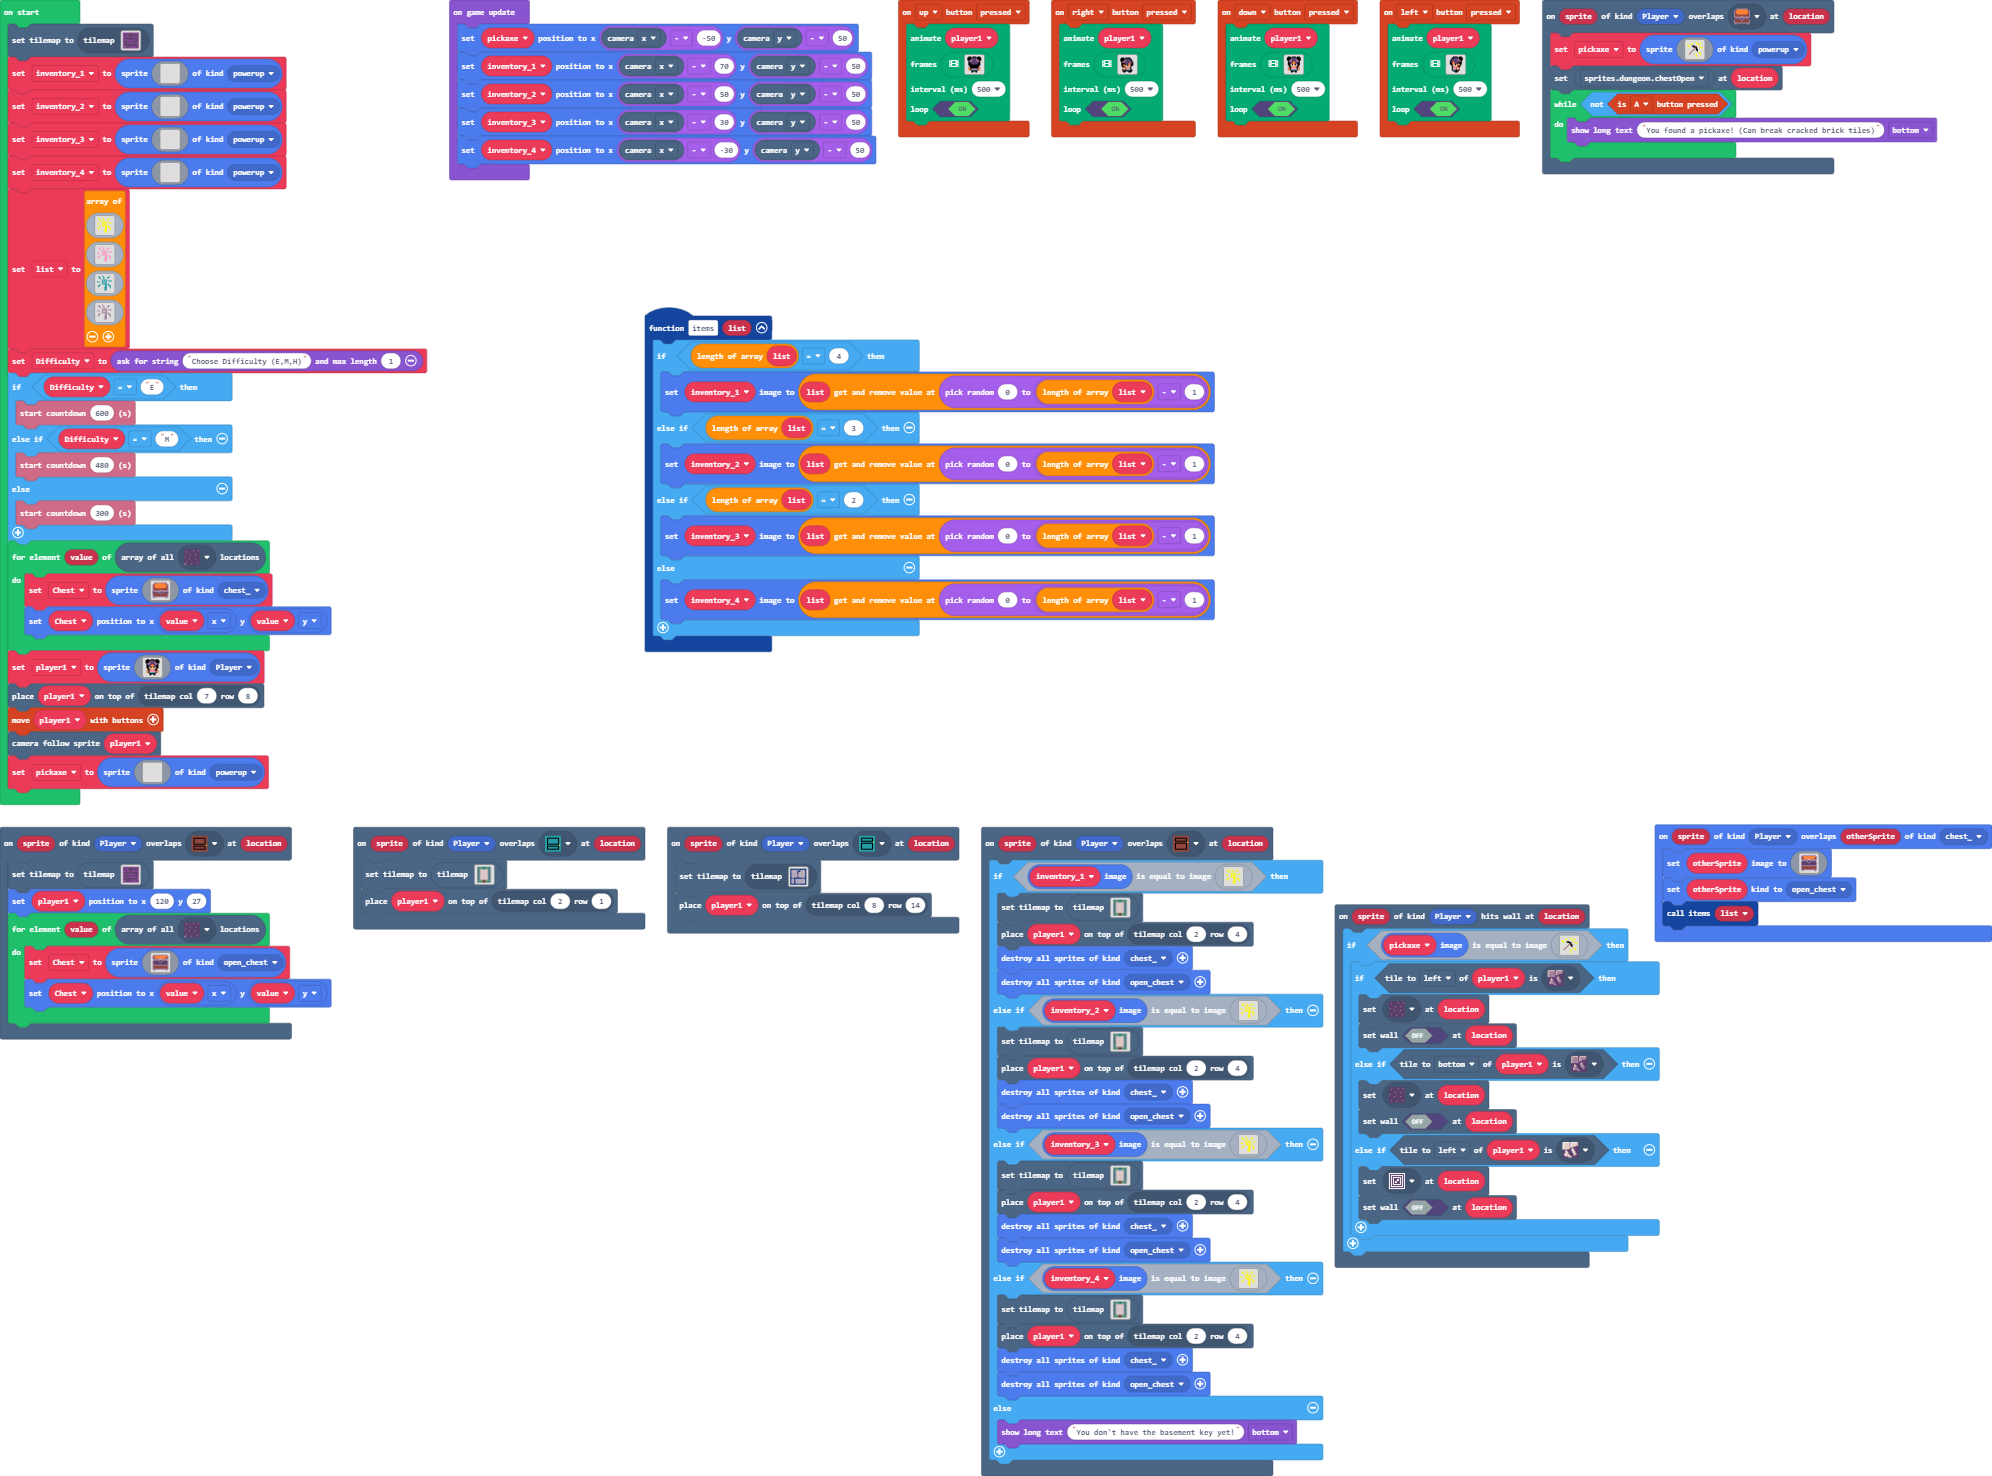
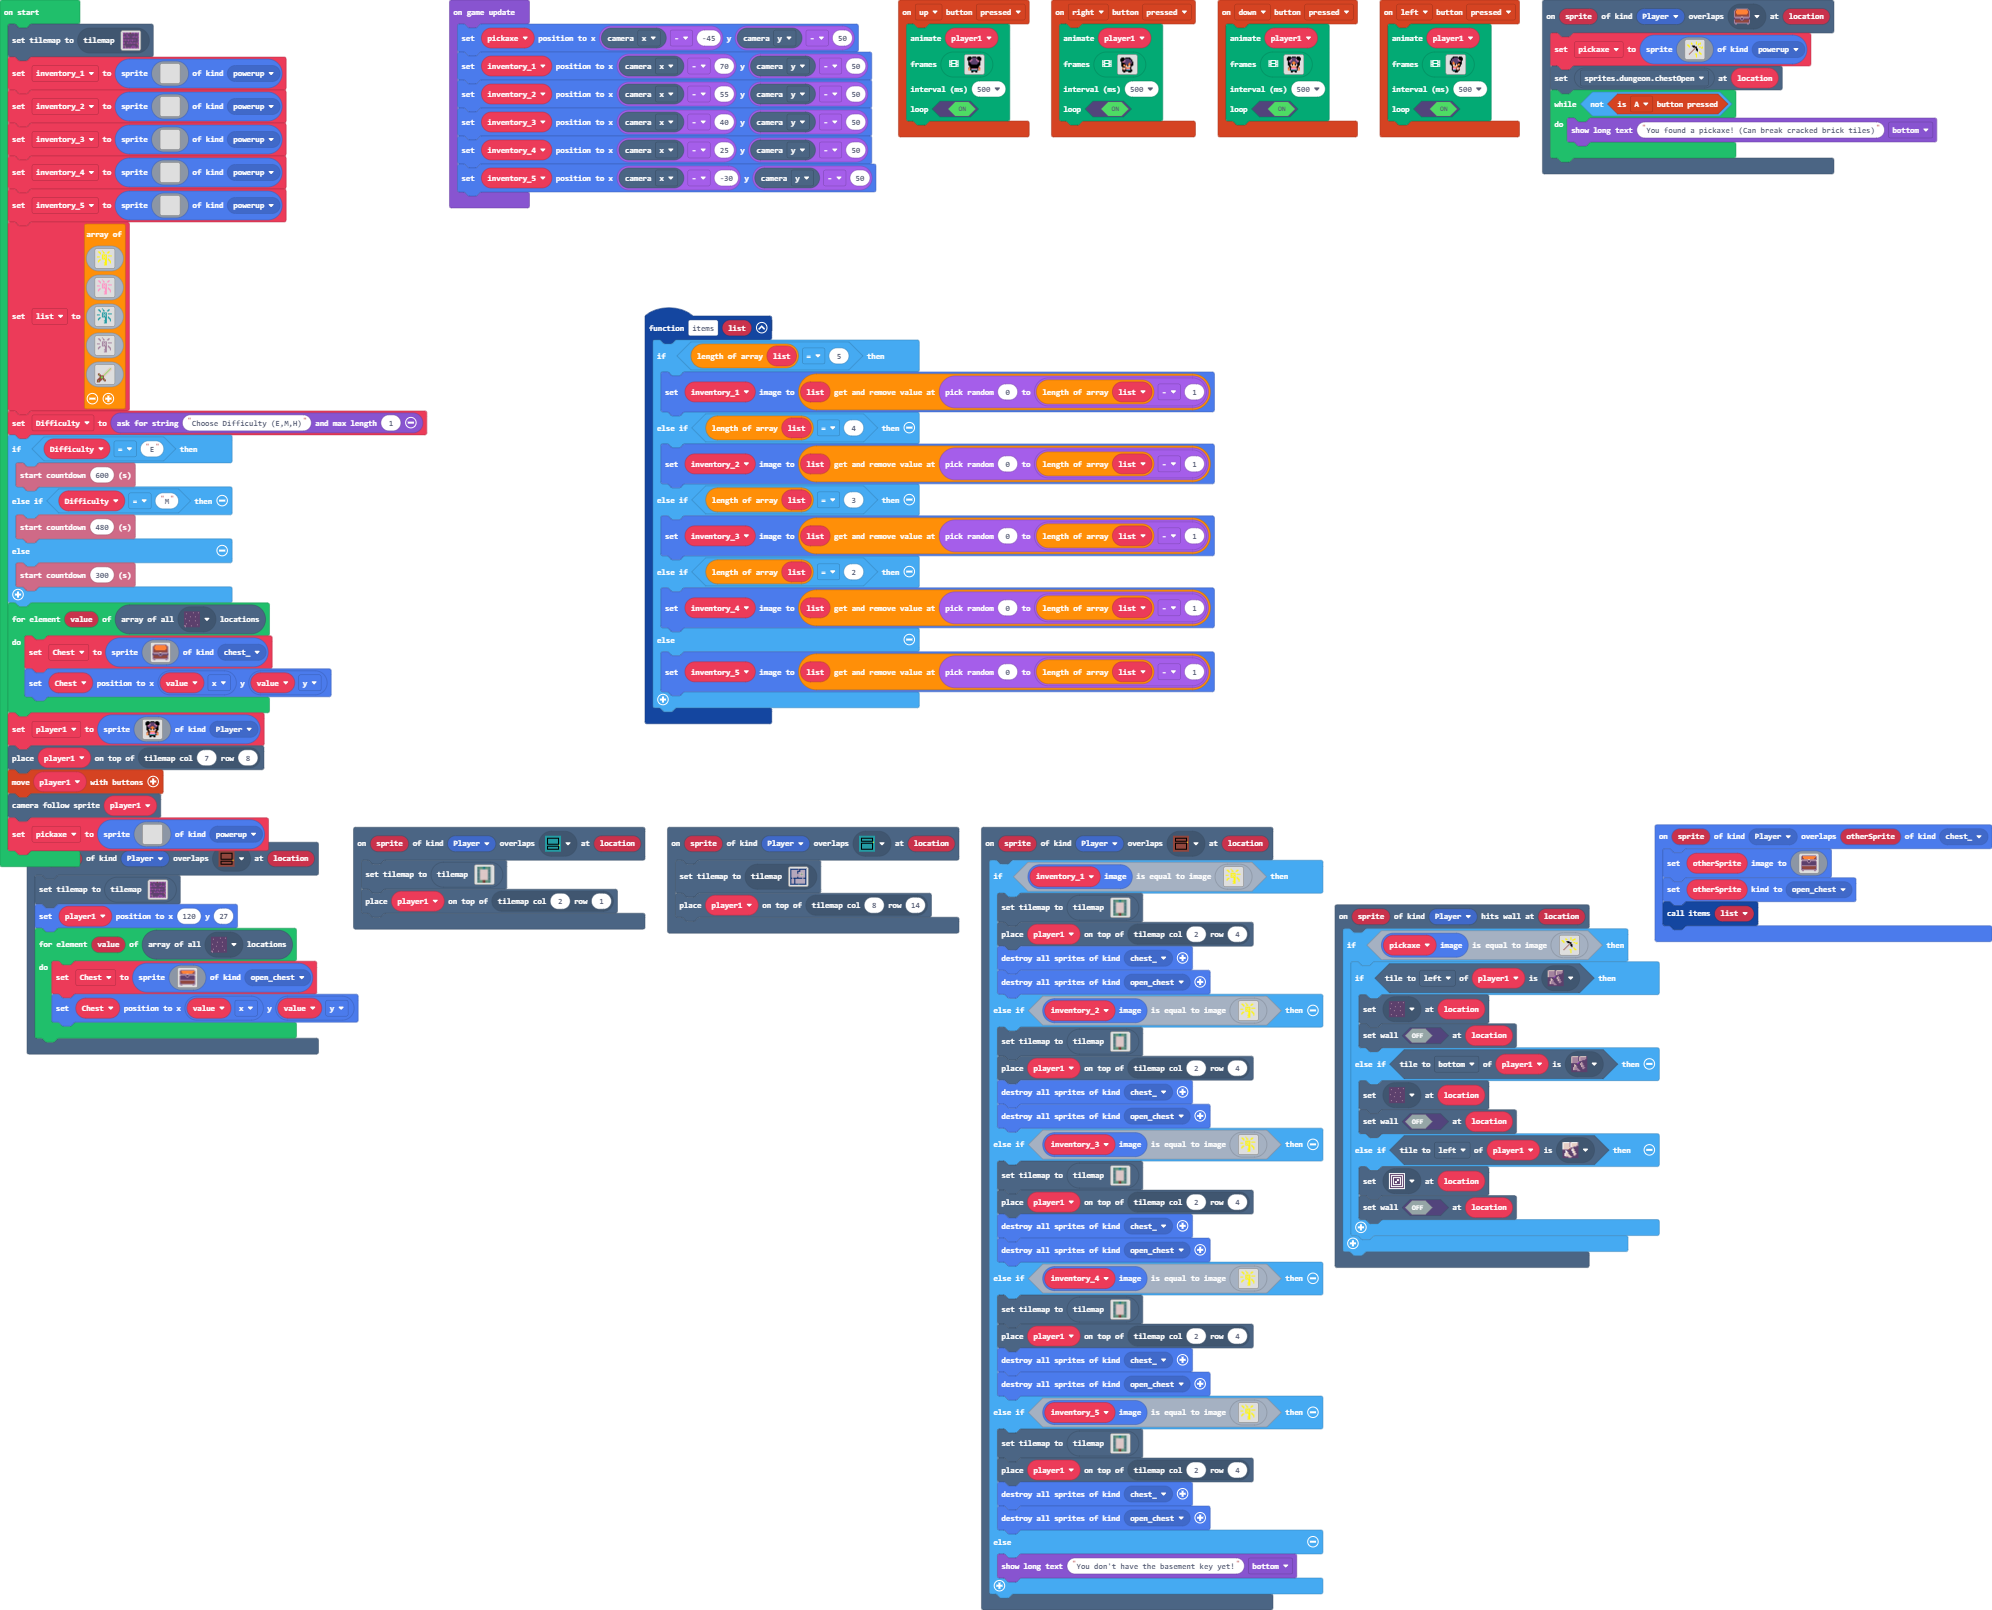
Update main.blocks, main.ts, tilemap.g.jres, tilemap.g.ts

Changed region(s): [[0.0, 0.0, 1.0, 0.9973], [0.3112, 0.187, 0.6225, 0.4675], [0.2179, 0.0, 0.996, 0.1558]]

diff --git a/tilemap.g.ts b/tilemap.g.ts
@@ -253,8 +253,84 @@ namespace myTiles {
 . . . . . . . . . . . . . . . . 
 . . . . . . . . . . . . . . . . 
 `, [myTiles.transparency16], TileScale.Sixteen);
+            case "level14":
+            case "level14":return tiles.createTilemap(hex`1000100000000000000000000000000000000000000000000000000000000000000000000000000000000000000000000000000000000000000000000000000000000000000000000000000000000000000000000000000000000000000000000000000000000000000000000000000000000000000000000000000000000000000000000000000000000000000000000000000000000000000000000000000000000000000000000000000000000000000000000000000000000000000000000000000000000000000000000000000000000000000000000000000000000000000000000000000000000000000000000000000000000000000000000000000000000000`, img`
+. . . . . . . . . . . . . . . . 
+. . . . . . . . . . . . . . . . 
+. . . . . . . . . . . . . . . . 
+. . . . . . . . . . . . . . . . 
+. . . . . . . . . . . . . . . . 
+. . . . . . . . . . . . . . . . 
+. . . . . . . . . . . . . . . . 
+. . . . . . . . . . . . . . . . 
+. . . . . . . . . . . . . . . . 
+. . . . . . . . . . . . . . . . 
+. . . . . . . . . . . . . . . . 
+. . . . . . . . . . . . . . . . 
+. . . . . . . . . . . . . . . . 
+. . . . . . . . . . . . . . . . 
+. . . . . . . . . . . . . . . . 
+. . . . . . . . . . . . . . . . 
+`, [myTiles.transparency16], TileScale.Sixteen);
+            case "level15":
+            case "level15":return tiles.createTilemap(hex`1000100000000000000000000000000000000000000000000000000000000000000000000000000000000000000000000000000000000000000000000000000000000000000000000000000000000000000000000000000000000000000000000000000000000000000000000000000000000000000000000000000000000000000000000000000000000000000000000000000000000000000000000000000000000000000000000000000000000000000000000000000000000000000000000000000000000000000000000000000000000000000000000000000000000000000000000000000000000000000000000000000000000000000000000000000000000000`, img`
+. . . . . . . . . . . . . . . . 
+. . . . . . . . . . . . . . . . 
+. . . . . . . . . . . . . . . . 
+. . . . . . . . . . . . . . . . 
+. . . . . . . . . . . . . . . . 
+. . . . . . . . . . . . . . . . 
+. . . . . . . . . . . . . . . . 
+. . . . . . . . . . . . . . . . 
+. . . . . . . . . . . . . . . . 
+. . . . . . . . . . . . . . . . 
+. . . . . . . . . . . . . . . . 
+. . . . . . . . . . . . . . . . 
+. . . . . . . . . . . . . . . . 
+. . . . . . . . . . . . . . . . 
+. . . . . . . . . . . . . . . . 
+. . . . . . . . . . . . . . . . 
+`, [myTiles.transparency16], TileScale.Sixteen);
+            case "level16":
+            case "level16":return tiles.createTilemap(hex`1000100000000000000000000000000000000000000000000000000000000000000000000000000000000000000000000000000000000000000000000000000000000000000000000000000000000000000000000000000000000000000000000000000000000000000000000000000000000000000000000000000000000000000000000000000000000000000000000000000000000000000000000000000000000000000000000000000000000000000000000000000000000000000000000000000000000000000000000000000000000000000000000000000000000000000000000000000000000000000000000000000000000000000000000000000000000000`, img`
+. . . . . . . . . . . . . . . . 
+. . . . . . . . . . . . . . . . 
+. . . . . . . . . . . . . . . . 
+. . . . . . . . . . . . . . . . 
+. . . . . . . . . . . . . . . . 
+. . . . . . . . . . . . . . . . 
+. . . . . . . . . . . . . . . . 
+. . . . . . . . . . . . . . . . 
+. . . . . . . . . . . . . . . . 
+. . . . . . . . . . . . . . . . 
+. . . . . . . . . . . . . . . . 
+. . . . . . . . . . . . . . . . 
+. . . . . . . . . . . . . . . . 
+. . . . . . . . . . . . . . . . 
+. . . . . . . . . . . . . . . . 
+. . . . . . . . . . . . . . . . 
+`, [myTiles.transparency16], TileScale.Sixteen);
+            case "level17":
+            case "level17":return tiles.createTilemap(hex`1000100000000000000000000000000000000000000000000000000000000000000000000000000000000000000000000000000000000000000000000000000000000000000000000000000000000000000000000000000000000000000000000000000000000000000000000000000000000000000000000000000000000000000000000000000000000000000000000000000000000000000000000000000000000000000000000000000000000000000000000000000000000000000000000000000000000000000000000000000000000000000000000000000000000000000000000000000000000000000000000000000000000000000000000000000000000000`, img`
+. . . . . . . . . . . . . . . . 
+. . . . . . . . . . . . . . . . 
+. . . . . . . . . . . . . . . . 
+. . . . . . . . . . . . . . . . 
+. . . . . . . . . . . . . . . . 
+. . . . . . . . . . . . . . . . 
+. . . . . . . . . . . . . . . . 
+. . . . . . . . . . . . . . . . 
+. . . . . . . . . . . . . . . . 
+. . . . . . . . . . . . . . . . 
+. . . . . . . . . . . . . . . . 
+. . . . . . . . . . . . . . . . 
+. . . . . . . . . . . . . . . . 
+. . . . . . . . . . . . . . . . 
+. . . . . . . . . . . . . . . . 
+. . . . . . . . . . . . . . . . 
+`, [myTiles.transparency16], TileScale.Sixteen);
             case "level3":
[2 lines of base64/hex data omitted]
 2 2 2 2 2 2 2 2 . 2 2 2 2 2 2 2 
 2 . . . . . . . . 2 . . . . . 2 
 2 . . . . . . 2 2 2 . . . . . 2 
@@ -271,7 +347,7 @@ namespace myTiles {
 2 . . . 2 . . . . . . . . . . 2 
 2 . . . 2 . . . . . . . . . . 2 
 2 2 2 2 2 2 2 2 . 2 2 2 2 2 2 2 
-`, [myTiles.transparency16,myTiles.tile5,myTiles.tile6,myTiles.tile9,myTiles.tile10,sprites.dungeon.floorLight2,myTiles.tile12,myTiles.tile13,myTiles.tile14,myTiles.tile15,sprites.builtin.forestTiles0,sprites.dungeon.floorDark3], TileScale.Sixteen);
+`, [myTiles.transparency16,myTiles.tile5,myTiles.tile6,myTiles.tile9,myTiles.tile10,sprites.dungeon.floorLight3,sprites.dungeon.floorLight2,myTiles.tile12,myTiles.tile13,myTiles.tile14,myTiles.tile15,sprites.builtin.forestTiles0], TileScale.Sixteen);
         }
         return null;
     })

diff --git a/main.ts b/main.ts
@@ -207,6 +207,28 @@ scene.onOverlapTile(SpriteKind.Player, assets.tile`myTile`, function (sprite, lo
         tiles.placeOnTile(player1, tiles.getTileLocation(2, 4))
         sprites.destroyAllSpritesOfKind(SpriteKind.chest_)
         sprites.destroyAllSpritesOfKind(SpriteKind.open_chest)
+    } else if (inventory_5.image.equals(img`
+        . . . . . 5 . . . . . . . . . . 
+        . 5 5 . . . 5 . . . . 5 5 . . . 
+        . . 5 5 . . 5 5 . . 5 5 . . . . 
+        . . . 5 . . . . . . . . . . . . 
+        . . . . . 5 5 5 5 5 . . . . . . 
+        . . . . . 5 . 5 . 5 . 5 5 5 5 . 
+        5 5 5 . . 5 5 . 5 5 . . . . . . 
+        . . . . . 5 . 5 . 5 . . . . . . 
+        . . . . . 5 5 5 5 5 . 5 . . . . 
+        . . 5 5 . . . . 5 5 . 5 5 . . . 
+        . 5 5 . . . . . 5 5 . . 5 5 . . 
+        . 5 . . . . . . 5 5 . . . 5 . . 
+        . . . . . . . 5 5 5 . . . 5 . . 
+        . . . . . . . . 5 5 . . . . . . 
+        . . . . . . . 5 5 5 . . . . . . 
+        . . . . . . . . . . . . . . . . 
+        `)) {
+        tiles.setCurrentTilemap(tilemap`level5`)
+        tiles.placeOnTile(player1, tiles.getTileLocation(2, 4))
+        sprites.destroyAllSpritesOfKind(SpriteKind.chest_)
+        sprites.destroyAllSpritesOfKind(SpriteKind.open_chest)
     } else {
         game.showLongText("You don't have the basement key yet!", DialogLayout.Bottom)
     }
@@ -297,14 +319,16 @@ controller.left.onEvent(ControllerButtonEvent.Pressed, function () {
     )
 })
 function items (list: Image[]) {
-    if (list.length == 4) {
+    if (list.length == 5) {
         inventory_1.setImage(list.removeAt(randint(0, list.length - 1)))
-    } else if (list.length == 3) {
+    } else if (list.length == 4) {
         inventory_2.setImage(list.removeAt(randint(0, list.length - 1)))
-    } else if (list.length == 2) {
+    } else if (list.length == 3) {
         inventory_3.setImage(list.removeAt(randint(0, list.length - 1)))
-    } else {
+    } else if (list.length == 2) {
         inventory_4.setImage(list.removeAt(randint(0, list.length - 1)))
+    } else {
+        inventory_5.setImage(list.removeAt(randint(0, list.length - 1)))
     }
 }
 scene.onOverlapTile(SpriteKind.Player, sprites.dungeon.chestClosed, function (sprite, location) {
@@ -457,6 +481,7 @@ let pickaxe: Sprite = null
 let player1: Sprite = null
 let Chest: Sprite = null
 let list: Image[] = []
+let inventory_5: Sprite = null
 let inventory_4: Sprite = null
 let inventory_3: Sprite = null
 let inventory_2: Sprite = null
@@ -517,6 +542,24 @@ inventory_3 = sprites.create(img`
     . . . . . . . . . . . . . . . . 
     `, SpriteKind.powerup)
 inventory_4 = sprites.create(img`
+    . . . . . . . . . . . . . . . . 
+    . . . . . . . . . . . . . . . . 
+    . . . . . . . . . . . . . . . . 
+    . . . . . . . . . . . . . . . . 
+    . . . . . . . . . . . . . . . . 
+    . . . . . . . . . . . . . . . . 
+    . . . . . . . . . . . . . . . . 
+    . . . . . . . . . . . . . . . . 
+    . . . . . . . . . . . . . . . . 
+    . . . . . . . . . . . . . . . . 
+    . . . . . . . . . . . . . . . . 
+    . . . . . . . . . . . . . . . . 
+    . . . . . . . . . . . . . . . . 
+    . . . . . . . . . . . . . . . . 
+    . . . . . . . . . . . . . . . . 
+    . . . . . . . . . . . . . . . . 
+    `, SpriteKind.powerup)
+inventory_5 = sprites.create(img`
     . . . . . . . . . . . . . . . . 
     . . . . . . . . . . . . . . . . 
     . . . . . . . . . . . . . . . . 
@@ -606,6 +649,24 @@ img`
     . . . . . . . . b b . . . . . . 
     . . . . . . . b b b . . . . . . 
     . . . . . . . . . . . . . . . . 
+    `,
+img`
+    . . . . . . . . . . . . . . . . 
+    . . . . . . . . . . . . d d d . 
+    . . . . . . . . . . . d d 7 d . 
+    . . . . . . . . . . d d 7 d d . 
+    . . . . . . . . . d d 7 d d . . 
+    . . . . . . . . d d 7 d d . . . 
+    . . . . . . . d d 7 d d . . . . 
+    . e e . . . d d 7 d d . . . . . 
+    . e 7 e . d d 7 d d . . . . . . 
+    . . e e e e e d d . . . . . . . 
+    . . . e 7 7 e d . . . . . . . . 
+    . . e e 7 7 e . . . . . . . . . 
+    . e e e e e e e . . . . . . . . 
+    e e e e e . e 7 e . . . . . . . 
+    e 7 e e . . . e e . . . . . . . 
+    e e e . . . . . . . . . . . . . 
     `
 ]
 let Difficulty = game.askForString("Choose Difficulty (E,M,H)", 1)
@@ -677,9 +738,10 @@ pickaxe = sprites.create(img`
     . . . . . . . . . . . . . . . . 
     `, SpriteKind.powerup)
 game.onUpdate(function () {
-    pickaxe.setPosition(scene.cameraProperty(CameraProperty.X) - -50, scene.cameraProperty(CameraProperty.Y) - 50)
+    pickaxe.setPosition(scene.cameraProperty(CameraProperty.X) - -45, scene.cameraProperty(CameraProperty.Y) - 50)
     inventory_1.setPosition(scene.cameraProperty(CameraProperty.X) - 70, scene.cameraProperty(CameraProperty.Y) - 50)
-    inventory_2.setPosition(scene.cameraProperty(CameraProperty.X) - 50, scene.cameraProperty(CameraProperty.Y) - 50)
-    inventory_3.setPosition(scene.cameraProperty(CameraProperty.X) - 30, scene.cameraProperty(CameraProperty.Y) - 50)
-    inventory_4.setPosition(scene.cameraProperty(CameraProperty.X) - -30, scene.cameraProperty(CameraProperty.Y) - 50)
+    inventory_2.setPosition(scene.cameraProperty(CameraProperty.X) - 55, scene.cameraProperty(CameraProperty.Y) - 50)
+    inventory_3.setPosition(scene.cameraProperty(CameraProperty.X) - 40, scene.cameraProperty(CameraProperty.Y) - 50)
+    inventory_4.setPosition(scene.cameraProperty(CameraProperty.X) - 25, scene.cameraProperty(CameraProperty.Y) - 50)
+    inventory_5.setPosition(scene.cameraProperty(CameraProperty.X) - -30, scene.cameraProperty(CameraProperty.Y) - 50)
 })
